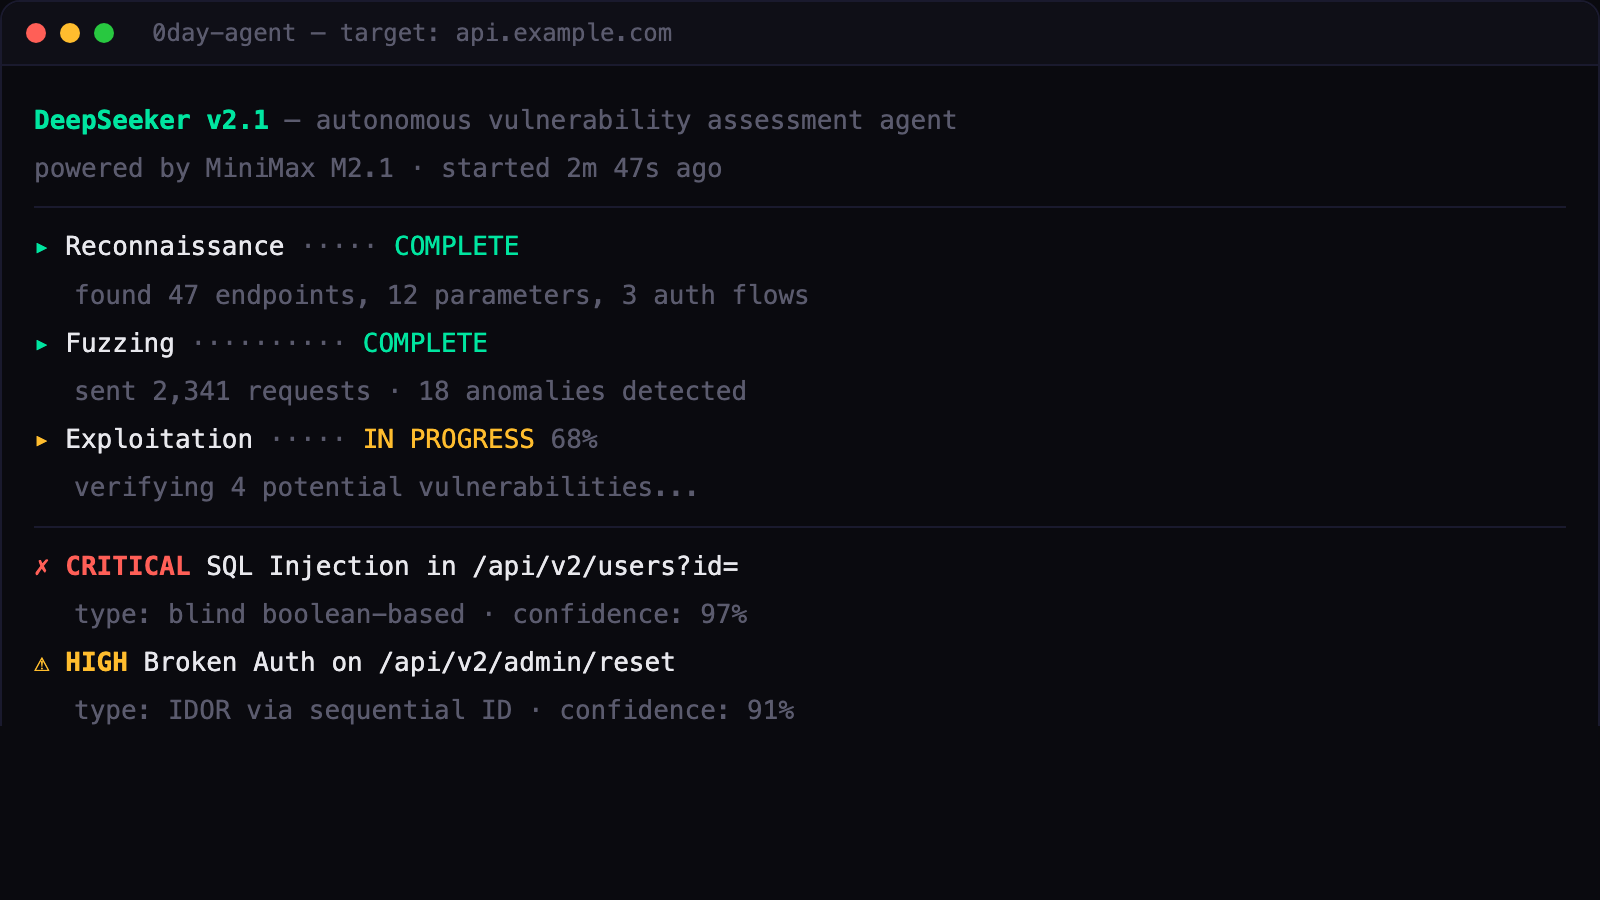
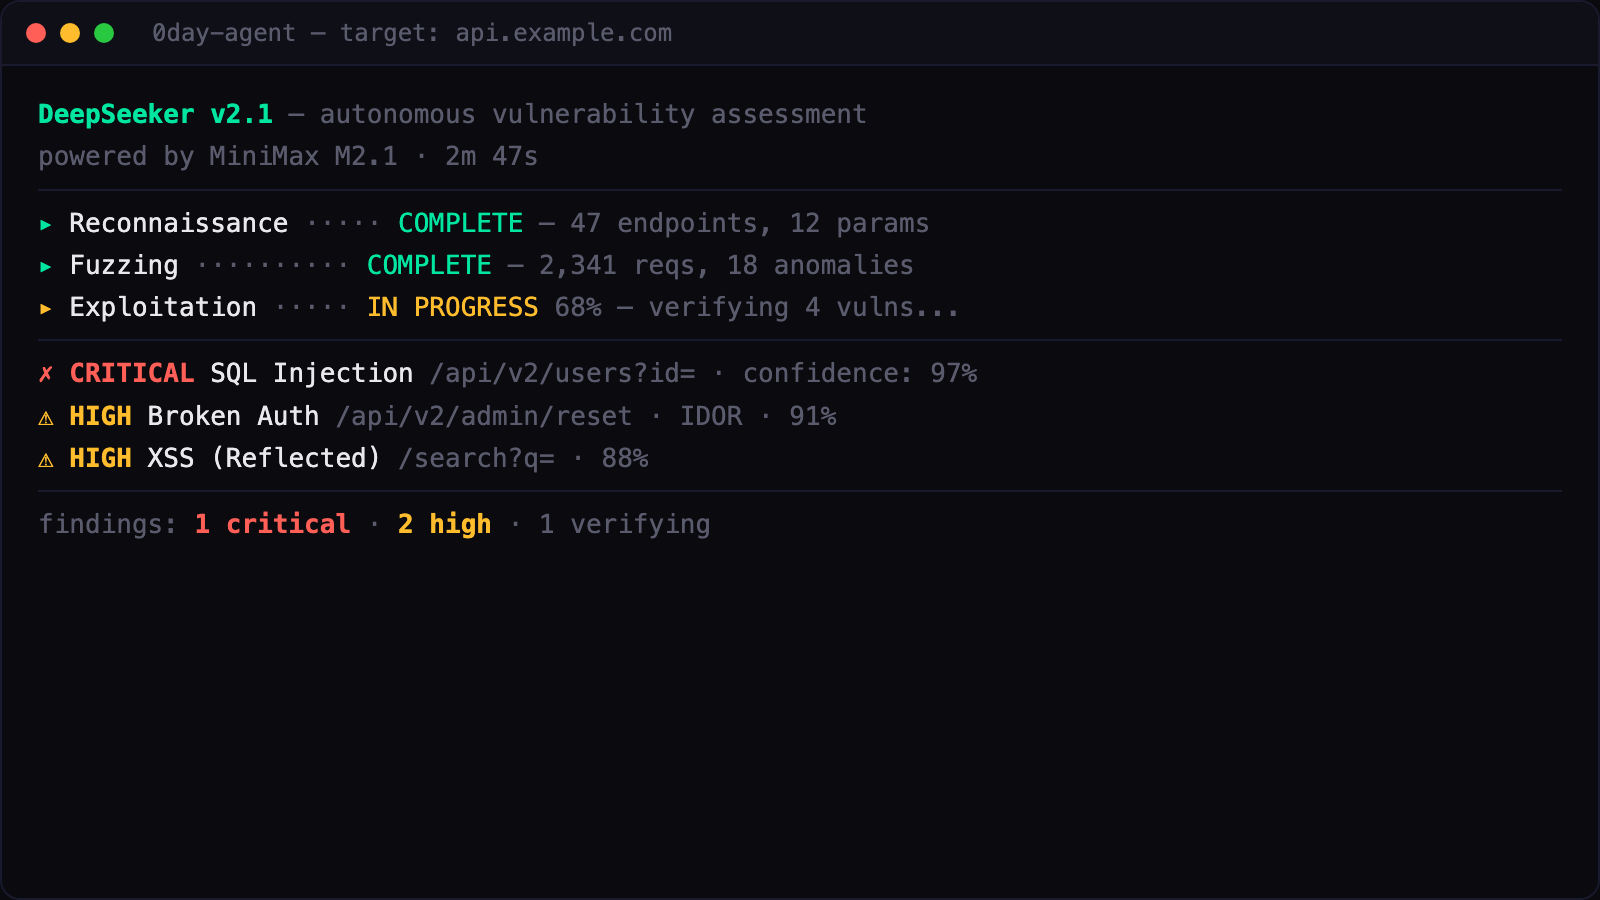
fix: tighten 0day-agent mockup to fit viewport

diff --git a/mockups/0day-agent.html b/mockups/0day-agent.html
@@ -2,13 +2,12 @@
 <html lang="en">
 <head>
 <meta charset="UTF-8">
-<meta name="viewport" content="width=800">
 <style>
   * { margin: 0; padding: 0; box-sizing: border-box; }
   body {
     width: 800px; height: 450px; overflow: hidden;
-    background: #0a0a0f; font-family: 'JetBrains Mono', 'Fira Code', 'SF Mono', Consolas, monospace;
-    font-size: 13px; color: #e8e8ed; padding: 0;
+    background: #0a0a0f; font-family: 'JetBrains Mono', 'SF Mono', Consolas, monospace;
+    font-size: 13px; color: #e8e8ed;
   }
   .window {
     width: 800px; height: 450px; border-radius: 10px; overflow: hidden;
@@ -19,53 +18,35 @@
     padding: 0 12px; gap: 7px; border-bottom: 1px solid #1a1a2e; flex-shrink: 0;
   }
   .dot { width: 10px; height: 10px; border-radius: 50%; }
-  .dot-r { background: #ff5f57; }
-  .dot-y { background: #ffbd2e; }
-  .dot-g { background: #28c840; }
-  .titlebar-text {
-    margin-left: 12px; color: #5b5b6e; font-size: 12px;
-  }
-  .terminal {
-    flex: 1; padding: 16px; overflow: hidden; line-height: 1.7;
-  }
-  .green { color: #00e5a0; }
-  .red { color: #ff5f57; }
-  .yellow { color: #ffbd2e; }
-  .muted { color: #5b5b6e; }
-  .white { color: #e8e8ed; }
-  .bold { font-weight: 600; }
-  .line { margin-bottom: 2px; }
+  .dot-r { background: #ff5f57; } .dot-y { background: #ffbd2e; } .dot-g { background: #28c840; }
+  .titlebar-text { margin-left: 12px; color: #5b5b6e; font-size: 12px; }
+  .terminal { flex: 1; padding: 14px 18px; overflow: hidden; line-height: 1.55; }
+  .green { color: #00e5a0; } .red { color: #ff5f57; } .yellow { color: #ffbd2e; }
+  .muted { color: #5b5b6e; } .white { color: #e8e8ed; } .bold { font-weight: 600; }
+  .line { margin-bottom: 1px; }
   .indent { padding-left: 20px; }
-  .divider { border: none; border-top: 1px solid #1a1a2e; margin: 8px 0; }
+  .divider { border: none; border-top: 1px solid #1a1a2e; margin: 6px 0; }
 </style>
 </head>
 <body>
 <div class="window">
   <div class="titlebar">
-    <div class="dot dot-r"></div>
-    <div class="dot dot-y"></div>
-    <div class="dot dot-g"></div>
+    <div class="dot dot-r"></div><div class="dot dot-y"></div><div class="dot dot-g"></div>
     <span class="titlebar-text">0day-agent — target: api.example.com</span>
   </div>
   <div class="terminal">
-    <div class="line"><span class="green bold">DeepSeeker v2.1</span> <span class="muted">— autonomous vulnerability assessment agent</span></div>
-    <div class="line"><span class="muted">powered by MiniMax M2.1 · started 2m 47s ago</span></div>
+    <div class="line"><span class="green bold">DeepSeeker v2.1</span> <span class="muted">— autonomous vulnerability assessment</span></div>
+    <div class="line"><span class="muted">powered by MiniMax M2.1 · 2m 47s</span></div>
     <hr class="divider">
-    <div class="line"><span class="green">▸</span> <span class="white">Reconnaissance</span> <span class="muted">·····</span> <span class="green">COMPLETE</span></div>
-    <div class="line indent"><span class="muted">found 47 endpoints, 12 parameters, 3 auth flows</span></div>
-    <div class="line"><span class="green">▸</span> <span class="white">Fuzzing</span> <span class="muted">··········</span> <span class="green">COMPLETE</span></div>
-    <div class="line indent"><span class="muted">sent 2,341 requests · 18 anomalies detected</span></div>
-    <div class="line"><span class="yellow">▸</span> <span class="white">Exploitation</span> <span class="muted">·····</span> <span class="yellow">IN PROGRESS</span> <span class="muted">68%</span></div>
-    <div class="line indent"><span class="muted">verifying 4 potential vulnerabilities...</span></div>
+    <div class="line"><span class="green">▸</span> <span class="white">Reconnaissance</span> <span class="muted">·····</span> <span class="green">COMPLETE</span> <span class="muted">— 47 endpoints, 12 params</span></div>
+    <div class="line"><span class="green">▸</span> <span class="white">Fuzzing</span> <span class="muted">··········</span> <span class="green">COMPLETE</span> <span class="muted">— 2,341 reqs, 18 anomalies</span></div>
+    <div class="line"><span class="yellow">▸</span> <span class="white">Exploitation</span> <span class="muted">·····</span> <span class="yellow">IN PROGRESS</span> <span class="muted">68% — verifying 4 vulns...</span></div>
     <hr class="divider">
-    <div class="line"><span class="red bold">✗ CRITICAL</span> <span class="white">SQL Injection in /api/v2/users?id=</span></div>
-    <div class="line indent"><span class="muted">type: blind boolean-based · confidence: 97%</span></div>
-    <div class="line"><span class="yellow bold">⚠ HIGH</span> <span class="white">Broken Auth on /api/v2/admin/reset</span></div>
-    <div class="line indent"><span class="muted">type: IDOR via sequential ID · confidence: 91%</span></div>
-    <div class="line"><span class="yellow bold">⚠ HIGH</span> <span class="white">XSS (Reflected) in /search?q=</span></div>
-    <div class="line indent"><span class="muted">type: reflected · confidence: 88%</span></div>
+    <div class="line"><span class="red bold">✗ CRITICAL</span> <span class="white">SQL Injection</span> <span class="muted">/api/v2/users?id= · confidence: 97%</span></div>
+    <div class="line"><span class="yellow bold">⚠ HIGH</span> <span class="white">Broken Auth</span> <span class="muted">/api/v2/admin/reset · IDOR · 91%</span></div>
+    <div class="line"><span class="yellow bold">⚠ HIGH</span> <span class="white">XSS (Reflected)</span> <span class="muted">/search?q= · 88%</span></div>
     <hr class="divider">
-    <div class="line"><span class="muted">findings: </span><span class="red bold">1 critical</span><span class="muted"> · </span><span class="yellow bold">2 high</span><span class="muted"> · </span><span class="white">1 verifying</span></div>
+    <div class="line"><span class="muted">findings: </span><span class="red bold">1 critical</span><span class="muted"> · </span><span class="yellow bold">2 high</span><span class="muted"> · 1 verifying</span></div>
   </div>
 </div>
 </body>
